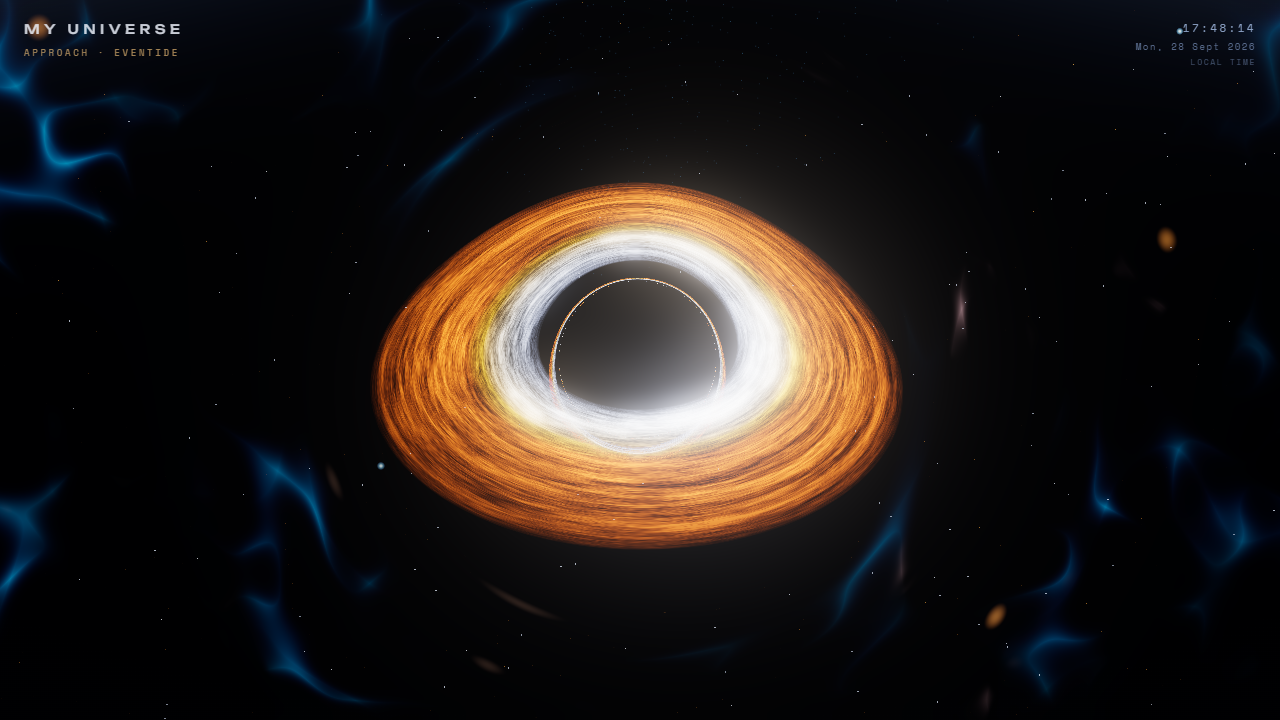
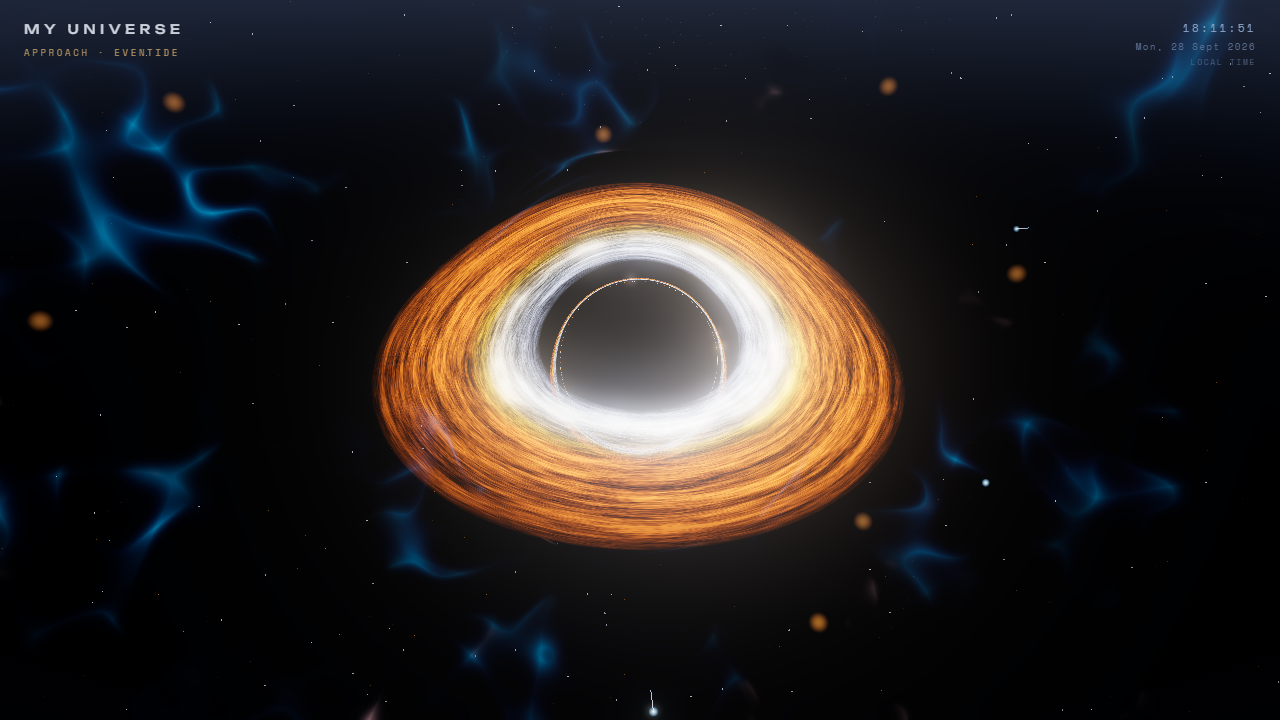
R66b: THE LIVING LENS — the sky is dragged along the hole's measured velocity and swirled around its sightline (signed with the disk's spin), confined to the hole's neighborhood; velocity flows engine tracker -> uLensVel -> shader

diff --git a/src/engine/engine.ts b/src/engine/engine.ts
@@ -21,6 +21,7 @@ import { smoothstep, makeGlowTexture } from './math';
 import { UniverseSurfaceManager } from './surface';
 import { LENS_UNIFORMS_GLSL, LENS_WARP_GLSL, LENS_POINT_GLSL } from './surface/surfaceShaders';
 import { createBlackHole, updateRaymarchUniforms, type BlackHoleVisual } from './blackholeRaymarch';
+import { getBlackHoleParams } from './blackholeParams';
 import { canUseRaymarchBlackHole, isSoftwareRasterizer, probeCapability, pixelRatioFor, getQualityTier, QUALITY_CHANGE_EVENT } from './capability';
 import { getRaymarchOverride, setRaymarchStatus, RAYMARCH_OVERRIDE_EVENT, type RaymarchStatus } from './blackholeTier';
 import { CameraRig } from './cameraRig';
@@ -353,6 +354,13 @@ export class UniverseEngine {
   private lensRims: number[] = new Array(16).fill(0);
   /* Round 16 — 1.0 = black hole (exact Schwarzschild optics + capture shadow) */
   private lensStrong: number[] = new Array(16).fill(0);
+  /* ROUND 66 — THE LIVING LENS: per-hole world velocity for the sky's
+     drag-and-swirl (the water-around-the-cone law). Velocities are MEASURED
+     from the real per-frame displacement and smoothed (orbital motion is
+     steady) — no hardcoded speed anywhere. w carries the disk's spin sign. */
+  private lensVels: THREE.Vector4[] = Array.from({ length: 16 }, () => new THREE.Vector4());
+  private lensVelPrev = new Map<string, { p: THREE.Vector3; v: THREE.Vector3 }>();
+  private _lensVelInst = new THREE.Vector3();
   private _lensDir = new THREE.Vector3();
   private _lensFwd = new THREE.Vector3();
   private _lensPos = new THREE.Vector3();  /* ROUND 61 — world pos of inner-system holes */
@@ -1713,11 +1721,15 @@ export class UniverseEngine {
     this.lensCur += (this.lensTarget - this.lensCur) * Math.min(1, dt * 4);
     this.camera.getWorldDirection(this._lensFwd);
     const cap = this.lensVecs.length;
+    /* ROUND 66 — the living lens: the swirl follows the disk's own spin */
+    const swirlSign = Math.sign(getBlackHoleParams().rotSpeed) || 1;
     let n = 0;
-    /* 1 — every hole and vault, anywhere in the scene, first. */
+    /* 1 — every hole and vault, anywhere in the scene, first — measured with
+       its real velocity so the sky can be dragged by the motion. */
     for (const b of this.bodies) {
       if (b.data.kind !== 'hole' && b.data.kind !== 'vault') continue;
       if (n >= cap) break;
+      this.trackLensVelocity(b.data.id, b.group.position, dt, n, swirlSign);
       n = this.pushSurfaceLens(n, b.group.position, b.data.radius, b.lensHalo ?? lensHaloFor(b.data.kind), 1);
     }
     if (n < cap) {
@@ -1728,21 +1740,45 @@ export class UniverseEngine {
           if (p.data.kind !== 'hole' && p.data.kind !== 'vault') continue;
           if (n >= cap) break;
           p.group.getWorldPosition(this._lensPos);
+          this.trackLensVelocity(p.data.id, this._lensPos, dt, n, swirlSign);
           n = this.pushSurfaceLens(n, this._lensPos, p.data.radius, lensHaloFor(p.data.kind), 1);
         }
         if (n >= cap) break;
       }
     }
     /* 2 — the ordinary masses: stars and worlds bending gently around
-       their own silhouettes, exactly as before. */
+       their own silhouettes, exactly as before (no drag — near-field motion
+       is a hole thing). */
     for (const b of this.bodies) {
       if (b.data.kind === 'hole' || b.data.kind === 'vault') continue;
       if (n >= cap) break;
       const halo = b.lensHalo ?? 0;
       if (halo <= 0) continue;
+      this.lensVels[n].set(0, 0, 0, 0);
       n = this.pushSurfaceLens(n, b.group.position, b.data.radius, halo, 0);
     }
-    this.surfaceManager.setLenses(this.lensVecs, this.lensRims, this.lensStrong, n, this.lensCur);
+    this.surfaceManager.setLenses(this.lensVecs, this.lensRims, this.lensStrong, this.lensVels, n, this.lensCur);
+  }
+
+  /* ROUND 66 — measure one hole's real world velocity (smoothed; orbital
+     motion is steady, so the measurement eases instead of jitering) and
+     stage its vec4 slot: xyz = velocity in world units/s, w = the disk's
+     spin sign. Called even when the lens is culled behind the view, so the
+     measurement stays alive while the hole is out of sight. */
+  private trackLensVelocity(key: string, worldPos: THREE.Vector3, dt: number, slot: number, swirlSign: number): void {
+    let rec = this.lensVelPrev.get(key);
+    if (!rec) {
+      rec = { p: worldPos.clone(), v: new THREE.Vector3() };
+      this.lensVelPrev.set(key, rec);
+      this.lensVels[slot].set(0, 0, 0, swirlSign);
+      return;
+    }
+    if (dt > 1e-4) {
+      this._lensVelInst.copy(worldPos).sub(rec.p).divideScalar(dt);
+      rec.v.lerp(this._lensVelInst, 0.12);
+    }
+    rec.p.copy(worldPos);
+    this.lensVels[slot].set(rec.v.x, rec.v.y, rec.v.z, swirlSign);
   }
 
   /** ONE surface-lens slot writer — the single law every lens obeys,

diff --git a/src/engine/surface/surfaceShaders.ts b/src/engine/surface/surfaceShaders.ts
@@ -14,6 +14,10 @@ export const LENS_UNIFORMS_GLSL = /* glsl */ `
 uniform vec4 uLenses[16];   /* xyz = direction to the mass, w = halo angle (rad) */
 uniform float uLensRim[16]; /* each mass's own apparent silhouette angle (rad) */
 uniform float uLensStrong[16]; /* 1.0 = black hole: exact Schwarzschild optics */
+/* ROUND 66 — THE LIVING LENS: xyz = the hole's measured world velocity
+   (units/s), w = the disk's spin sign — the sky near a moving, spinning
+   hole is dragged and swirled (the water-around-the-cone law). */
+uniform vec4 uLensVel[16];
 uniform int uLensCount;
 uniform float uLensBend;
 uniform float uLensScale;   /* ROUND 58 — the march's lensing factor (2.4): the
@@ -104,6 +108,35 @@ vec3 applyLensBend(vec3 d){
       if (disp < 1e-6) continue;
       float ang2 = max(ang - disp, 0.0);          /* β — monotone, fold-proof by the math above */
       d = lensReconstruct(L, d, cosA, ang2);
+      /* ROUND 66 — THE LIVING LENS: the water-around-the-cone law. The hole
+         moves (translation) and spins (rotation), and the sky near it is
+         DRAGGED — never a static flat ring of bending. Two near-field
+         motions, both inside the same confinement as the radial bend and
+         both scaled by the hole's REAL measured velocity, so a faster hole
+         stirs harder and a stationary one stirs nothing:
+         DRAG — the sampled sky streams along the hole's motion: the wake,
+           space compressing ahead and stretching behind the moving hole;
+         SWIRL — the sampled sky rotates around the hole's sightline: the
+           vortex the spin winds up, signed with the disk's own rotation
+           (sin(ang) lever — no swirl on the sightline itself). */
+      vec4 lvel = uLensVel[i];
+      float speed = length(lvel.xyz);
+      float near = confine * confine;
+      if (speed > 1e-4) {
+        float fall = near / (1.0 + 3.0 * (ang / bc) * (ang / bc));
+        float drag = min(0.16, speed * 0.012) * fall * uLensBend;
+        if (drag > 1e-4) d = normalize(d + (lvel.xyz / speed) * drag);
+      }
+      if (abs(lvel.w) > 0.01) {
+        float fall = near / (1.0 + 3.0 * (ang / bc) * (ang / bc));
+        float cosL = clamp(dot(d, L), -1.0, 1.0);
+        vec3 tang = d - L * cosL;
+        float tl = length(tang);
+        if (tl > 1e-4) {
+          float swirl = lvel.w * 0.16 * fall * uLensBend * tl;
+          d = normalize(d + (cross(L, d) / tl) * swirl);
+        }
+      }
     } else {
       /* ---- weak mode: the Round 14 law ---- */
       float x = ang / rim;

diff --git a/src/engine/surface/UniverseSurfaceManager.ts b/src/engine/surface/UniverseSurfaceManager.ts
@@ -52,6 +52,10 @@ export class UniverseSurfaceManager {
        Schwarzschild optics (image equation + capture shadow) instead of the
        weak-field law the stars and worlds use. */
     uLensStrong: { value: new Array(16).fill(0) },
+    /* ROUND 66 — THE LIVING LENS: xyz = the hole's measured world velocity
+       (units/s), w = the disk's spin sign — the sky near a moving hole is
+       dragged and swirled (the water-around-the-cone law). */
+    uLensVel: { value: Array.from({ length: 16 }, () => new THREE.Vector4()) },
     uLensCount: { value: 0 },
     uLensBend: { value: 1 },
     /* ROUND 58 — the sky lens scales with the panel's Grav. Lensing so the
@@ -471,14 +475,16 @@ export class UniverseSurfaceManager {
       body's own silhouette angle (rims) and — Round 16 — whether it is a
       BLACK HOLE (strong = exact Schwarzschild optics with a capture shadow).
       bend = damped global strength (0 when off). */
-  public setLenses(lenses: THREE.Vector4[], rims: number[], strong: number[], count: number, bend: number): void {
+  public setLenses(lenses: THREE.Vector4[], rims: number[], strong: number[], vels: THREE.Vector4[], count: number, bend: number): void {
     const arr = this.lensUniforms.uLenses.value as THREE.Vector4[];
     const rimArr = this.lensUniforms.uLensRim.value as number[];
     const strongArr = this.lensUniforms.uLensStrong.value as number[];
+    const velArr = this.lensUniforms.uLensVel.value as THREE.Vector4[];
     for (let i = 0; i < count && i < arr.length; i++) {
       arr[i].copy(lenses[i]);
       rimArr[i] = rims[i];
       strongArr[i] = strong[i];
+      velArr[i].copy(vels[i]);
     }
     this.lensUniforms.uLensCount.value = count;
     this.lensUniforms.uLensBend.value = bend;

diff --git a/scripts/round17-gauntlet.ts b/scripts/round17-gauntlet.ts
@@ -379,6 +379,18 @@ function inv(d: [number, number, number]): [number, number] {
     && /1\.0 - smoothstep\(4\.0, 6\.0, ang \/ bc\)/.test(ssSrc);
   check('R58/66: the sky lens law — gradual 1/θ decay, confined to hug the hole', skyLens, `${skyLens}`);
 
+  /* ROUND 66 — THE LIVING LENS: the sky is DRAGGED along the hole's real
+     measured velocity and SWIRLED around its sightline (signed with the
+     disk's spin) — motion in the lens, never a static flat ring. The
+     velocity flows engine (tracked, smoothed) → uniform → shader. */
+  const livingLens = /uniform vec4 uLensVel\[16\];/.test(ssSrc)
+    && /float drag = min\(0\.16, speed \* 0\.012\) \* fall \* uLensBend;/.test(ssSrc)
+    && /float swirl = lvel\.w \* 0\.16 \* fall \* uLensBend \* tl;/.test(ssSrc)
+    && /private trackLensVelocity\(/.test(engSrc)
+    && /this\.trackLensVelocity\(b\.data\.id, b\.group\.position, dt, n, swirlSign\);/.test(engSrc)
+    && /this\.lensVels\[n\]\.set\(0, 0, 0, 0\);/.test(engSrc);
+  check('R66: the living lens — drag + swirl from measured velocity, engine → uniform → shader', livingLens, `${livingLens}`);
+
   /* NO GLOW SPRITE — it fatted the halo into a blob and washed the arch out;
      the blaze now comes from the damped project bloom (R65: distance-aware —
      his 0.68 at the close encounter, calm baseline in wide views). */
